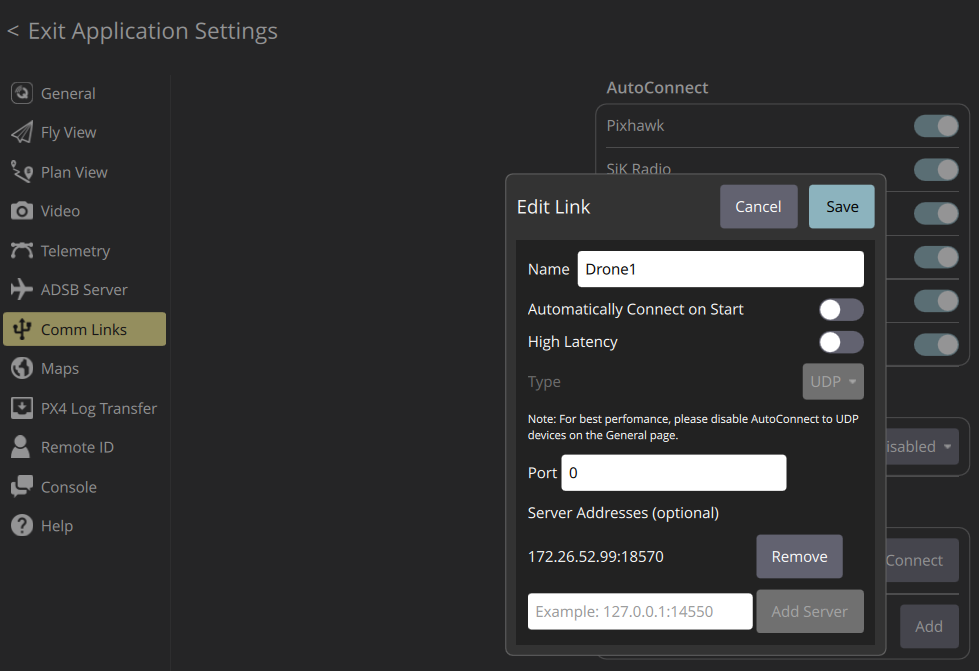
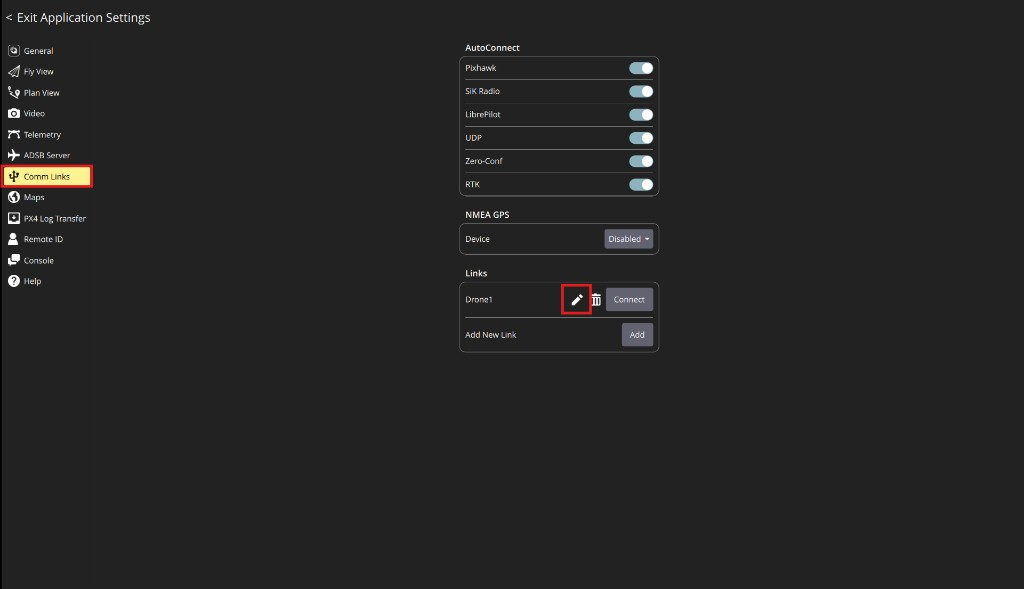
added documentation for ardupilot launch (#5)
* added documentation for ardupilot launch

* improved hierarchy based on pr review

* pictures added

* minor fixes

* further minor fixes

* more minor fixes

* incompatibility fixed

* trash taken out

diff --git a/docs/source/_static/custom.css b/docs/source/_static/custom.css
@@ -1,0 +1,6 @@
+.rst-content img.no-float-left {
+    float: none !important;
+    display: block;
+    margin-left: 0;
+    margin-right: auto;
+}

diff --git a/docs/source/conf.py b/docs/source/conf.py
@@ -26,6 +26,8 @@ intersphinx_mapping = {
 intersphinx_disabled_domains = ['std']
 
 templates_path = ['_templates']
+html_static_path = ['_static']
+html_css_files = ['custom.css']
 
 # -- Options for HTML output
 

diff --git a/docs/source/sitl_simulation_px4.rst b/docs/source/sitl_simulation_px4.rst
@@ -1,0 +1,51 @@
+SITL simulation with PX4
+========================
+
+
+1. **Start PteroSim**, press **Start** on the simulation panel, and spawn the aircraft (e.g. F450). You may start PX4 before or after; lockstep engages once PX4 connects.
+
+2. **Run PX4 SITL** on Linux/WSL with lockstep and put your **Ubuntu IP address** in ``[IP-address]``:
+
+   .. code-block:: bash
+
+      PX4_SIM_HOSTNAME=[IP-address] PX4_LOCKSTEP=1 PX4_SIM_SPEED_FACTOR=1 make px4_sitl none_iris
+
+   3. Launch **QGroundControl** and open **Application Settings**:
+
+   .. image:: Images/qgc_main_menu.png
+      :alt: QGroundControl main menu and Application Settings
+      :align: left
+
+4. Add or edit a **Comm Link** to your PX4 instance (UDP to the machine where SITL runs, typically port **14550**):
+
+   .. image:: Images/qgc_comm_link.png
+      :alt: QGroundControl communication link configuration
+      :align: left
+
+   .. image:: Images/qgc_comm_link_edit.png
+      :alt: QGroundControl comm link edit window with server address
+      :align: left
+
+5. Manually connect using the configured link:
+
+   .. image:: Images/qgc_connect_link.png
+      :alt: QGroundControl select link to connect
+      :align: left
+
+6. Head to **Plan Flight**:
+
+   .. image:: Images/qgc_plan_flight.png
+      :alt: QGroundControl main screen with Plan Flight highlighted
+      :align: left
+
+7. Create flight plan using options on the pannel on the left of the screen and press Upload button to upload the plan.
+
+   .. image:: Images/qgc_plan_upload.png
+      :alt: QGroundControl plan editor and Upload button
+      :align: left
+
+8. Exit planning mode and use the takeoff slider.
+
+   .. image:: Images/qgc_takeoff_slider.png
+      :alt: QGroundControl takeoff slider prompt
+      :align: left

diff --git a/docs/source/first_steps.rst b/docs/source/first_steps.rst
@@ -9,7 +9,14 @@ Clicking it opens the aircraft and payload spawn panel:
 
 .. image:: Images/spawn_panel.png
    :alt: Aircraft and payload spawn panel
-   :align: center
+   :class: no-float-left
+
+Simulation controls
+-------------------
+
+* Use Start/Pause and Stop buttons to control the simulation state.
+* Use Time Scale, Physics Hz, Weather, Wind kts and Dir windows to control phyiscal atributes of the simulation.
+
 
 Aircraft grid
 -------------
@@ -23,8 +30,6 @@ Aircraft types
 --------------
 
 * **F450Aircraft** — four rotor drone.
-* **DeltaQuadAircraft** — VTOL with four vertical lift rotors and one rear-facing propeller.
-* **Cessna172Aircraft** — fixed-wing airplane.
 
 Payloads
 --------
@@ -32,39 +37,3 @@ Payloads
 * **BasePayload** spawns a cargo box with configurable **Mass (kg)**.  
   Aircraft equipped with a gripper can lift this box and use it as a payload in scenarios.
 
-Taking Flight
--------------
-
-1. **Start the PteroSim simulation.**  
-   Launch PteroSim and press the **Start** button to run the simulation.
-
-2. **Configure QGroundControl communication.**  
-   Open QGroundControl and go to **Application Settings**:
-
-   .. image:: Images/qgc_main_menu.png
-      :alt: QGroundControl main menu and Application Settings
-      :align: center
-
-   In the left sidebar select **Comm Links** and create or edit a link so that it matches your simulator setup:
-
-   .. image:: Images/qgc_comm_link.png
-      :alt: QGroundControl communication link configuration
-      :align: center
-
-3. **Run PX4 SITL.**  
-   On Ubuntu (or WSL), in the root folder of your PX4 source tree, run:
-
-   .. code-block:: bash
-
-      PX4_SIM_HOSTNAME=<YOUR_HOST_IP_ADDRESS> PX4_LOCKSTEP=1 PX4_SIM_SPEED_FACTOR=1 make px4_sitl none_iris
-
-   After a few seconds the PX4 console should report that it is **ready for takeoff**.
-
-4. **Connect QGroundControl and plan a mission.**  
-   In QGroundControl click **Disconnected – Click to manually connect** and choose the link (for example **Drone1**) to connect:
-
-   .. image:: Images/qgc_connect_link.png
-      :alt: QGroundControl select link to connect
-      :align: center
-
-   Once connected, you can use the Plan view to create missions with waypoints, takeoff and landing commands, and other actions.

diff --git a/docs/source/sitl_simulation_ardupilot.rst b/docs/source/sitl_simulation_ardupilot.rst
@@ -1,0 +1,30 @@
+SITL simulation with ArduPilot
+==============================
+
+1. **Start** PteroSim and spawn the F450 drone.
+
+2. On Ubuntu/WSL, head to ArduPilot folder and launch ArduPilot SITL while putting your **Ubuntu IP address** in ``JSON:[IP-address]``:
+
+   .. code-block:: bash
+
+      python3 Tools/autotest/sim_vehicle.py -v ArduCopter -f quad --model JSON:[IP-address] --no-rebuild -w -P FRAME_TYPE=1
+
+   This command is an **F450 quad example**. Other vehicle types use different ``sim_vehicle.py`` options (vehicle type, frame, and parameters).
+
+3. Launch **Mission Planner** and open the **Plan** tab in the top left of the screen:
+
+   .. image:: Images/ardupilot_plan_top_tabs.png
+      :alt: Mission Planner top tabs with Plan selected
+      :align: left
+
+4. Build a mission either from the bottom waypoint table or by right-clicking on the map. Then click **Write** on the panel on the right side of the screen to upload the mission:
+
+   .. image:: Images/ardupilot_plan_map_context_menu.png
+      :alt: Mission Planner map right-click mission menu
+      :align: left
+
+5. Go to the **Data** tab. Open **Actions** and click **Arm/Disarm**. Select **mission_start** and click **Do Action**.
+  
+   .. image:: Images/ardupilot_plan_write_panel.png
+      :alt: Mission Planner write panel
+      :align: left

diff --git a/docs/source/getting_started.rst b/docs/source/getting_started.rst
@@ -6,19 +6,19 @@ System requirements
 
 **Minimum:**
 
-* OS: Windows 10 64-bit (version 1909+) or Windows 11
-* CPU: Quad-core Intel or AMD, 2.5 GHz or faster
-* RAM: 16 GB
-* GPU: DirectX 11/12-compatible, 8 GB VRAM
-* Storage: 10 GB free space
+* OS: Windows 10 64-bit / Ubuntu 22.04
+* CPU: Quad-core, 2.5 GHz
+* RAM: 8 GB
+* GPU: GTX 770 / RX 570
+* Storage: 5 GB
 
 **Recommended:**
 
-* OS: Windows 11
-* CPU: 6-core Intel Core i5-12600K / AMD Ryzen 5 5600X or better
-* RAM: 32 GB
-* GPU: NVIDIA RTX 3070 Ti / RTX 4070 Ti or equivalent, 12+ GB VRAM
-* Storage: 10 GB free space (SSD recommended)
+* OS: Windows 11 / Ubuntu 24.04
+* CPU: 6+ cores, 3.0+ GHz
+* RAM: 16 GB
+* GPU: RTX 2070+ / RX 5700+
+* Storage: 10 GB SSD
 
 Software requirements
 ---------------------
@@ -33,6 +33,7 @@ Software requirements
 * `PX4 <https://docs.px4.io/main/en/dev_setup/dev_env_linux_ubuntu>`_
 * `QGroundControl <https://qgroundcontrol.com/>`_
 * `ArduPilot <https://ardupilot.org/ardupilot>`_
+* `Mission Planner <https://ardupilot.org/planner/docs/mission-planner-installation.html>`_
 
 Setup
 -----

diff --git a/docs/source/index.rst b/docs/source/index.rst
@@ -5,7 +5,7 @@ Welcome to the PteroSim documentation.
 
 .. image:: Images/pterosim_hero.png
    :alt: PteroSim F450 quadcopter
-   :align: center
+   :align: left
    :width: 100%
 
 .. note::
@@ -22,6 +22,12 @@ First Steps
 
 :doc:`first_steps` — Basic spawning workflow for aircraft and payloads.
 
+SITL Simulation
+---------------
+
+:doc:`sitl_simulation_px4` — PX4 SITL workflow with QGroundControl.
+:doc:`sitl_simulation_ardupilot` — ArduPilot SITL workflow with Mission Planner.
+
 Python API
 ----------
 
@@ -34,4 +40,6 @@ For ready-to-run usage examples, see `PteroSimScripts on GitHub <https://github.
 
    getting_started
    first_steps
+   sitl_simulation_px4
+   sitl_simulation_ardupilot
    python_api